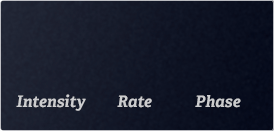
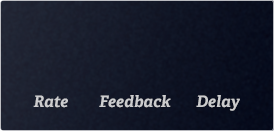
Fixed a typo and added deck for TunaChorus

Changed region(s): [[0.3504, 0.7023, 0.6423, 0.8244], [0.0584, 0.7023, 0.3212, 0.855], [0.7007, 0.7023, 0.8759, 0.855]]

diff --git a/plugins/TunaChorus/TunaChorus.js b/plugins/TunaChorus/TunaChorus.js
@@ -45,7 +45,7 @@ define(['require'], function(require) {
        var knobSpacing = 83;
        var knobTop = 20;
        this.knobDescription = [ {id: 'rate', init: 1.5, range: [0.01,8]},
-                                {id: 'feedback', init: 0.2, range: 0,1]},
+                                {id: 'feedback', init: 0.2, range: [0,1]},
                                 {id: 'delay', init: 0.0045, range: [0,1]}
                               ];
 
